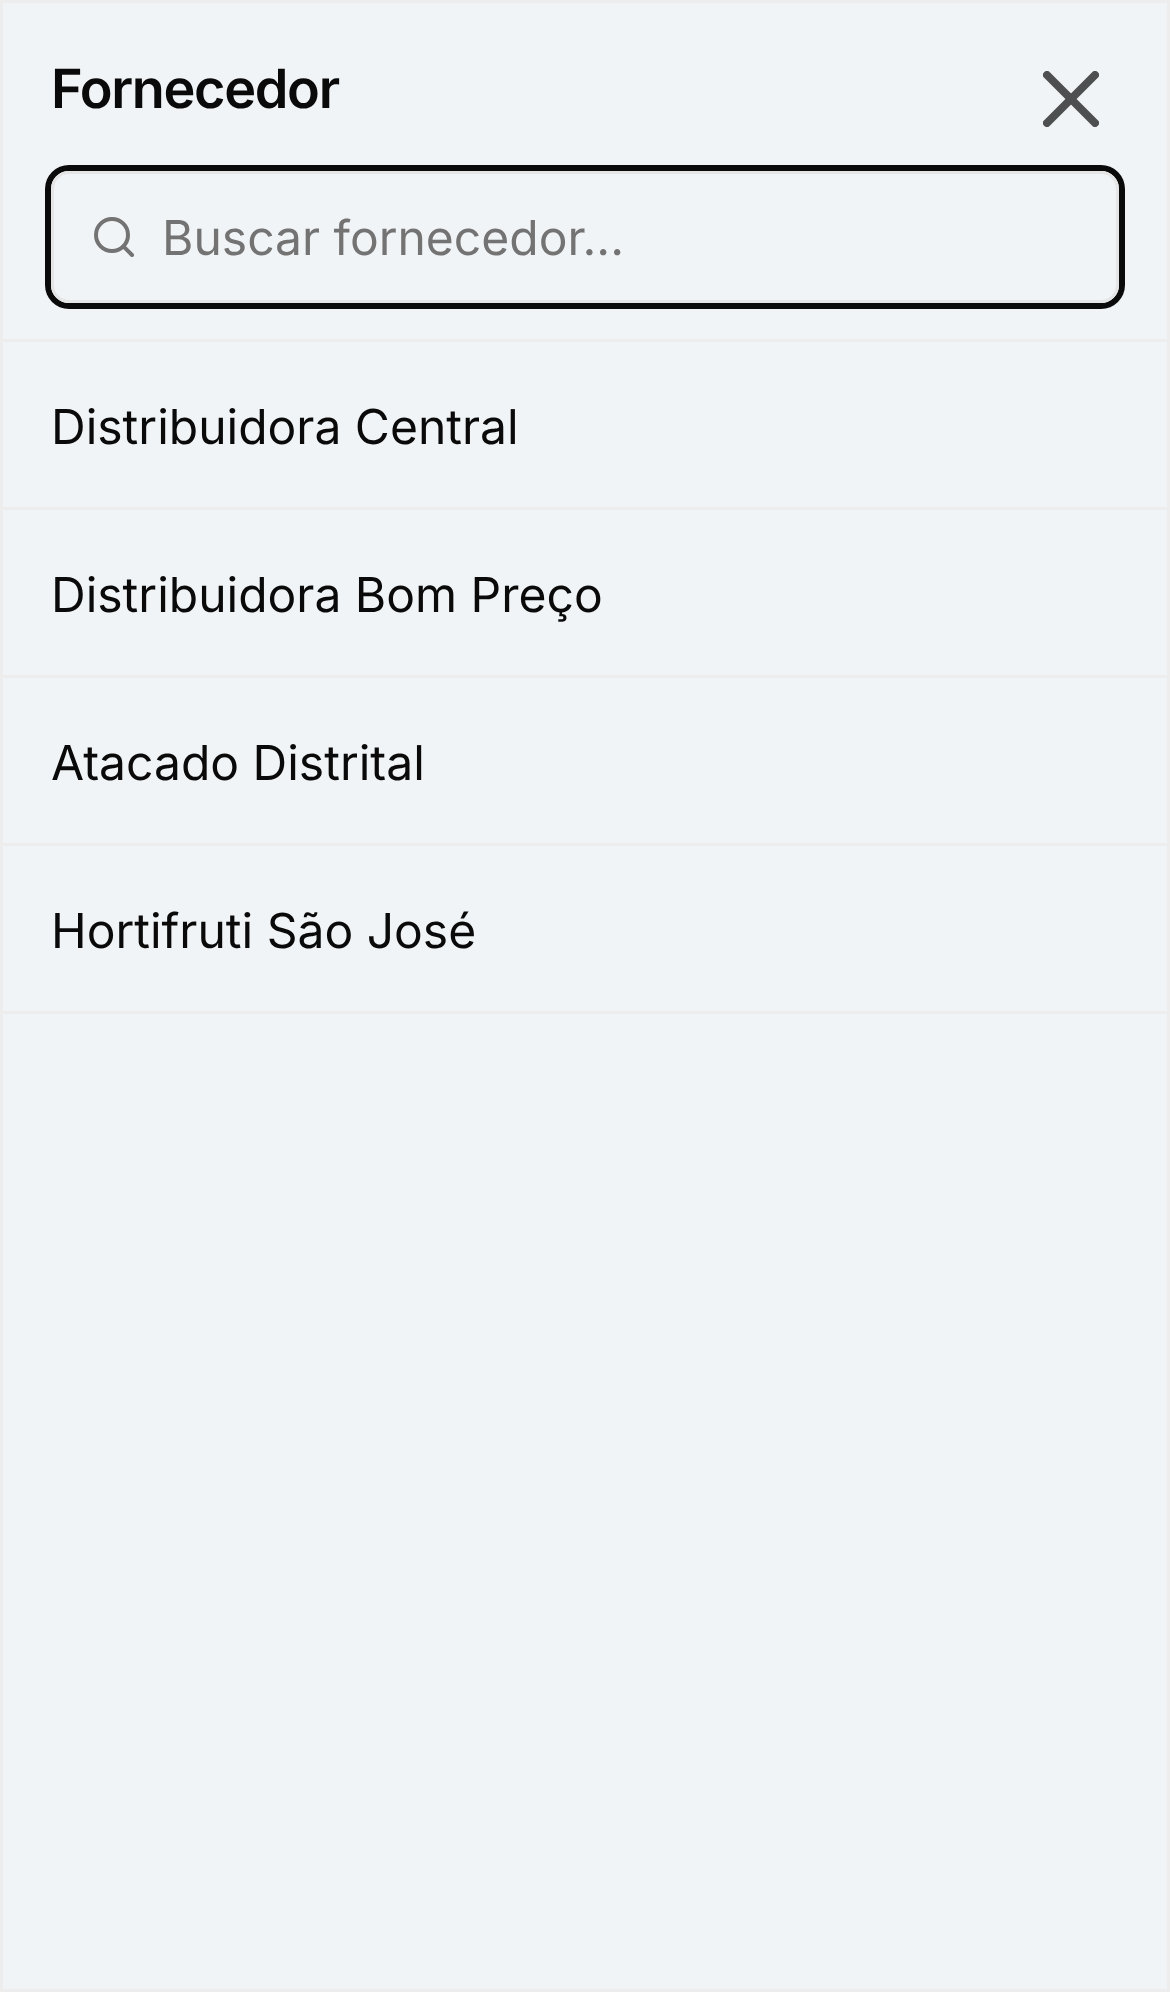
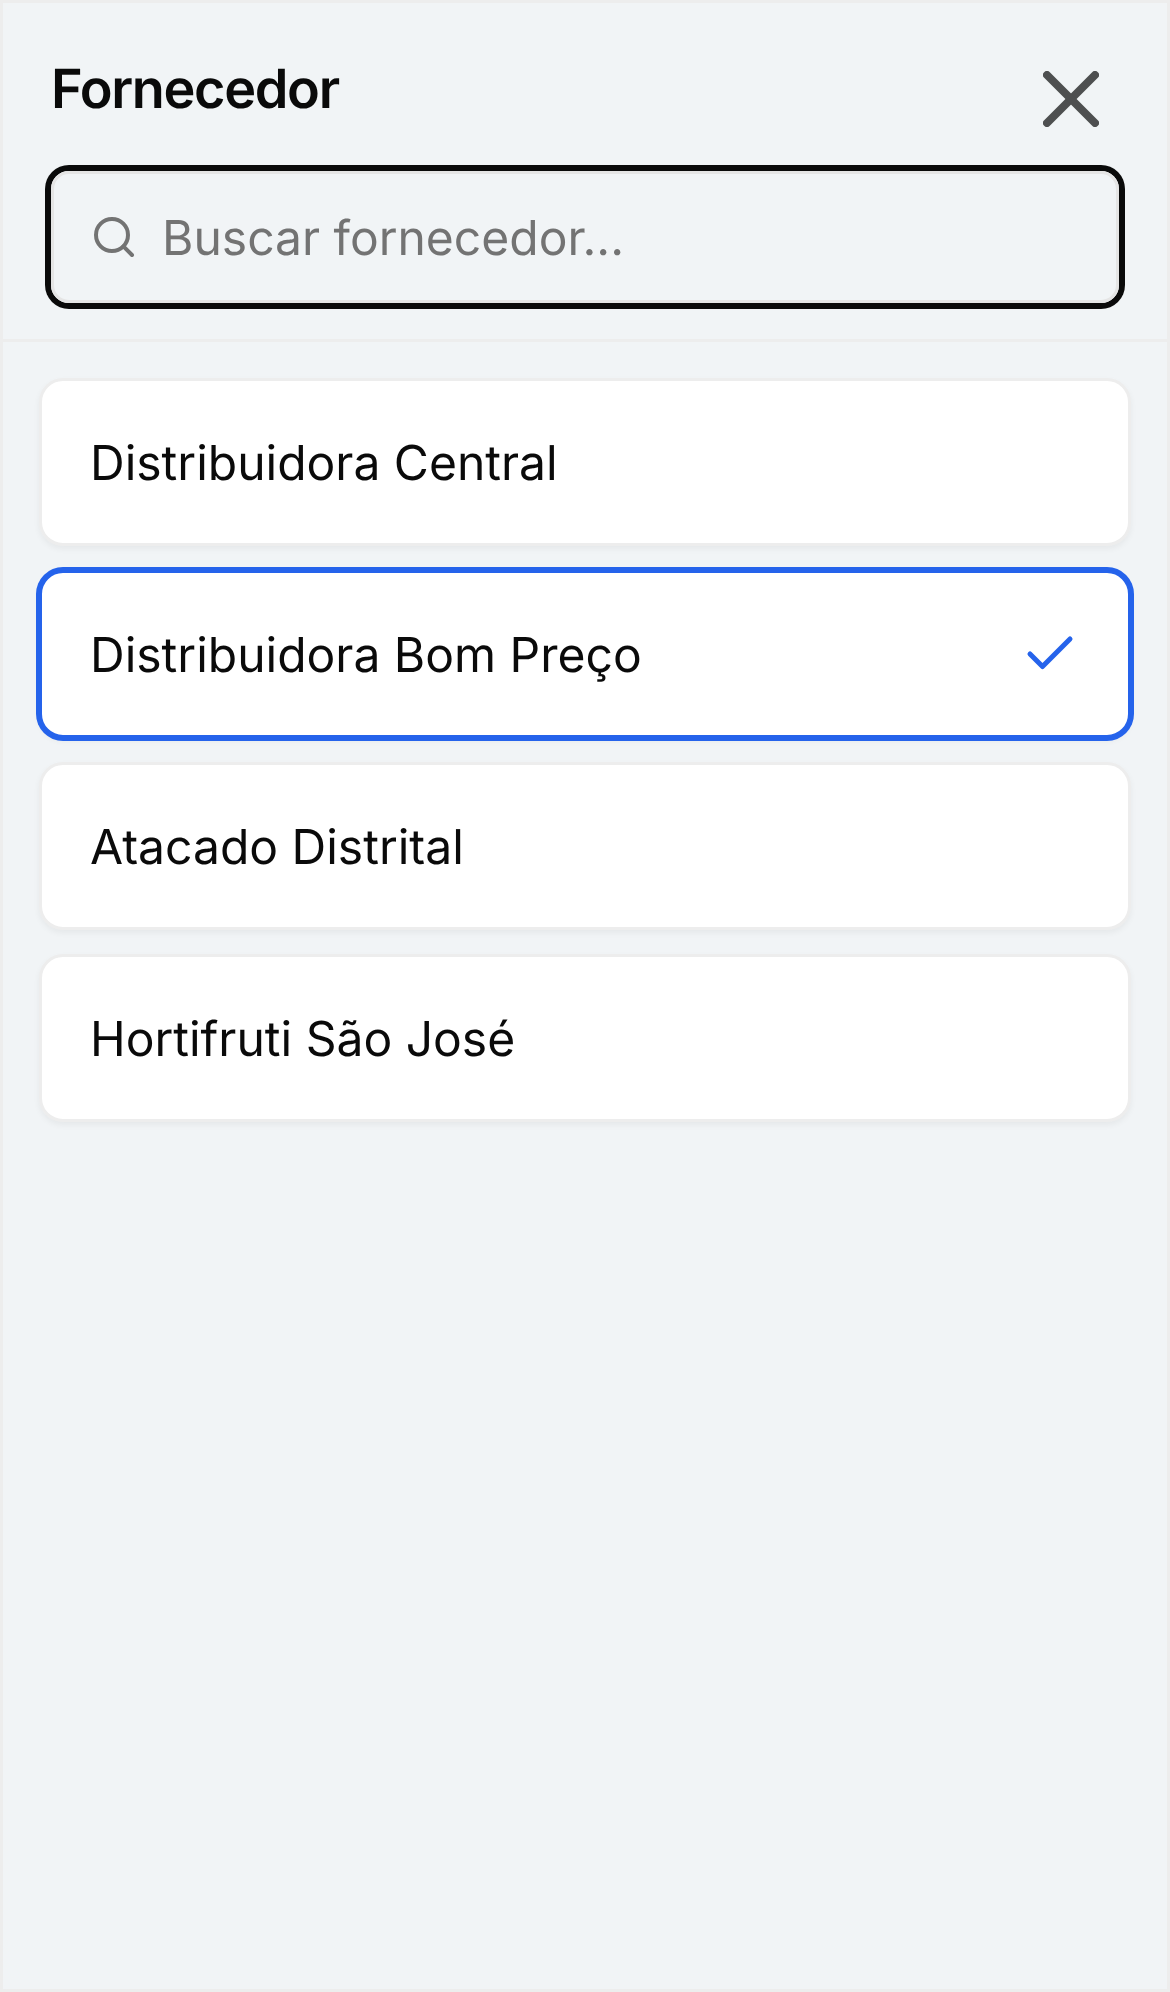
Mostra opções do autocomplete mobile como cards
Claude-Session: https://claude.ai/code/session_01HtMVLafwdiaSfdKXnKEmo7

Changed region(s): [[0.0308, 0.2801, 0.5538, 0.5291], [0.0615, 0.1867, 0.4923, 0.249], [0.9231, 0.2801, 0.9846, 0.3735]]

diff --git a/resources/js/components/ui/AsyncSelectMobile.tsx b/resources/js/components/ui/AsyncSelectMobile.tsx
@@ -156,14 +156,14 @@ export default function AsyncSelectMobile({
             </div>
           </DialogHeader>
 
-          <div className="min-h-0 flex-1 overflow-y-auto overscroll-contain" role="listbox" aria-label={title}>
+          <div className="flex min-h-0 flex-1 flex-col gap-2 overflow-y-auto overscroll-contain p-3" role="listbox" aria-label={title}>
             {createOption && (
               <button
                 type="button"
                 role="option"
                 aria-selected={false}
                 onClick={() => choose(createOption)}
-                className="text-primary hover:bg-accent flex min-h-14 w-full items-center gap-3 border-b px-4 text-left text-base font-medium"
+                className="text-primary border-primary/40 bg-card hover:bg-accent flex min-h-14 w-full shrink-0 items-center gap-3 rounded-lg border border-dashed px-4 text-left text-base font-medium"
               >
                 <Plus className="size-5 shrink-0" aria-hidden="true" />
                 <span className="min-w-0 truncate">{createOption.label.replace(/^\+\s*/, '')}</span>
@@ -180,7 +180,10 @@ export default function AsyncSelectMobile({
                   role="option"
                   aria-selected={isSelected}
                   onClick={() => choose(option)}
-                  className={cn('hover:bg-accent flex min-h-14 w-full items-center gap-3 border-b px-4 text-left text-base', isSelected && 'bg-accent/60')}
+                  className={cn(
+                    'bg-card hover:bg-accent flex min-h-14 w-full shrink-0 items-center gap-3 rounded-lg border px-4 text-left text-base shadow-xs transition-colors',
+                    isSelected && 'border-primary ring-primary ring-1',
+                  )}
                 >
                   <span className="min-w-0 flex-1">
                     <HighlightedText text={option.label} query={query} />
